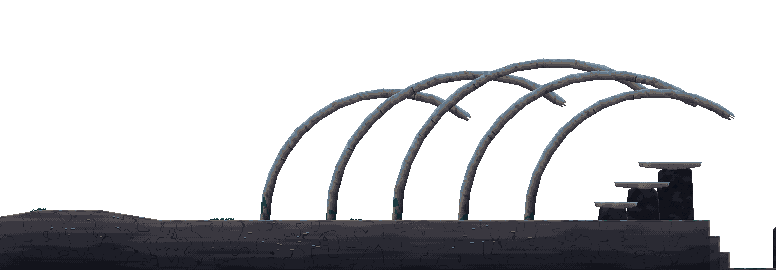
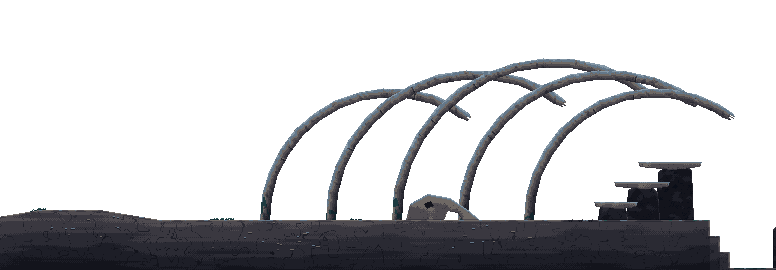
Draw the shelves, the tablets and what stands along the way
Baked into the ground strip: the skull under the ribs; the hollow under
the first shelf with the kneeling tablet in it and the procession cut
beside it, five robed figures walking into the sea where the arm rises;
the cairn; the second shelf on its two leaning props, with the eye
tablet and the statue; Dagon's footprint pressed into the mud, with the
mud its toes pushed up showing beside the prompt; and the three small
prints to the ledges. The tablets are lit and edged as the first one,
and fill their own shapes, so the one in the recess stays under its
shelf: prop_shape now honours a part's scale. 26 greybox shapes hidden.

Checked: check_art.py problems=0; integration 435 passed, 0 failed (GCC
debug, native clone). Captures looked at by the developer only.

Changed region(s): [[0.5258, 0.7111, 0.6186, 0.8296]]

diff --git a/tools/art/gen_abyss.py b/tools/art/gen_abyss.py
@@ -99,6 +99,7 @@ def ground():
     paste(img, crossing_pillar(), None)
     noise = Noise(301)  # The reference section's own, so the mud carries on across x = 1440.
     stone = Noise(331)
+    draw_props_behind(img, noise)
     for col in range(width):
         x = X0 + col
         top = round(GROUND_ROW + surface_y(x + 0.5))
@@ -144,6 +145,9 @@ def ground():
     draw_rock_feet(img, stone)
     draw_hollow(img, noise)
     draw_dressing(img, noise)
+    draw_props(img, noise)
+    draw_footprint(img, noise)
+    draw_prints(img)
     for x in range(END_WALL_X, X1):
         pass  # The ground runs on under the last wall, which is not drawn.
     return img
@@ -418,14 +422,16 @@ def prop_position(name):
 
 
 def prop_shape(prop, part):
-    """A part of a prop, in world space: the prop's place, the part's own offset, and its shape."""
+    """A part of a prop, in world space: the prop's place, the part's own offset and scale, and its shape."""
     text = scene_text()
     block = re.search(r'\[node name="%s" type="Polygon2D" parent="Props/%s"\]\n(.*?)\n\n' % (part, prop), text, re.S).group(1)
     offset = re.search(r"position = Vector2\(([-0-9.]+), ([-0-9.]+)\)", block)
     ox, oy = (float(offset.group(1)), float(offset.group(2))) if offset else (0.0, 0.0)
+    scale = re.search(r"scale = Vector2\(([-0-9.]+), ([-0-9.]+)\)", block)
+    sx, sy = (float(scale.group(1)), float(scale.group(2))) if scale else (1.0, 1.0)
     px, py = prop_position(prop)
     numbers = [float(n) for n in re.search(r"polygon = PackedVector2Array\(([^)]*)\)", block).group(1).split(",")]
-    return [(x + px + ox, y + py + oy) for x, y in zip(numbers[0::2], numbers[1::2])]
+    return [(x * sx + px + ox, y * sy + py + oy) for x, y in zip(numbers[0::2], numbers[1::2])]
 
 
 def carve(img, shapes, cut="E0", fill="T3", lip="T4"):
@@ -449,19 +455,26 @@ def carve(img, shapes, cut="E0", fill="T3", lip="T4"):
             put(img, x - X0, GROUND_ROW + y, color)
 
 
-def draw_tablet(img, noise, cx, base):
-    """A standing slab like the first, outside the cave (gen_cave.draw_tablet), on the ground or on a shelf."""
-    foot = GROUND_ROW + base
-    for y in range(foot - 33, foot):
-        row = y - (foot - 33)
-        half = 11 if row > 6 else 7 + round(row * 0.7)
-        for x in range(cx - half, cx + half + 1):
+def draw_tablet(img, noise, shape):
+    """A standing slab like the first, outside the cave (gen_cave.draw_tablet), lit and edged as it is, filling its
+    own shape in the scene: the one in the recess is smaller, to stand under the shelf."""
+    left, right = math.floor(min(x for x, _ in shape)), math.ceil(max(x for x, _ in shape))
+    top, bottom = math.floor(min(y for _, y in shape)), math.ceil(max(y for _, y in shape))
+    cx = (left + right) / 2
+    for y in range(top, bottom):
+        for x in range(left, right + 1):
+            if not _covers(shape, x, y):
+                continue
             facet = noise(x / 6.0, y / 7.0)
-            value = 3.0 + (facet - 0.5) * 1.0 + (0.6 if x < cx else 0.0) - row * 0.02
-            put(img, x - X0, y, ramp(MUD, value, x, y, 0.2))
-        put(img, cx - half - X0, y, "C5")
-        put(img, cx + half - X0, y, "E1")
-    hline(img, cx - 7 - X0, cx + 7 - X0, foot - 33, "C6")
+            value = 3.0 + (facet - 0.5) * 1.0 + (0.6 if x < cx else 0.0) - (y - top) * 0.02
+            color = ramp(MUD, value, x, y, 0.2)
+            if not _covers(shape, x, y - 1):
+                color = "C6"
+            elif not _covers(shape, x - 1, y):
+                color = "C5"
+            elif not _covers(shape, x + 1, y):
+                color = "E1"
+            put(img, x - X0, GROUND_ROW + y, color)
 
 
 def draw_props_behind(img, noise):
@@ -469,7 +482,7 @@ def draw_props_behind(img, noise):
     # Under the first shelf: a hollowed face of the rock, and the procession cut into it.
     paste(img, stone_from([scene_shape("Alcove", "ActArt")], 381, ROCK, 0.9, 1.2), None)
     paste(img, stone_from([prop_shape("Relief", "Panel")], 382, ROCK, 2.1, 0.9), None)
-    carve(img, [prop_shape("Relief", f"Walker{i}") for i in range(1, 6)], cut="E5", fill="E4", lip="E3")
+    draw_walkers(img)
     carve(img, [prop_shape("Relief", "Sea"), prop_shape("Relief", "Arm")])
     # What holds the second shelf up: two leaning props of rock, behind the way under it.
     for x, lean in ((3440, 5), (3548, -4)):
@@ -479,14 +492,31 @@ def draw_props_behind(img, noise):
         paste(img, stone_from([scene_shape(name, "Ledges")], seed, STONE, 2.5, 1.0), None)
 
 
+# A robed figure walking toward the sea, its head bowed: too small for the scene's shapes to say, so drawn by hand.
+WALKER = ["..##.", "..##.", "...#.", ".###.", ".####", ".###.", ".###.", ".###.", ".####", ".####", "#####"]
+STRIDES = [".#.#.", "#...#"]
+
+
+def draw_walkers(img):
+    """The procession, one figure on each walker's shape and standing on its foot, cut as the rest of the relief."""
+    for i in range(1, 6):
+        shape = prop_shape("Relief", f"Walker{i}")
+        left = round((min(x for x, _ in shape) + max(x for x, _ in shape)) / 2) - 2
+        rows = WALKER + [STRIDES[i % 2]]
+        top = round(max(y for _, y in shape)) - len(rows)
+        lit = {(left + c, top + r) for r, line_ in enumerate(rows) for c, mark in enumerate(line_) if mark == "#"}
+        for x, y in lit:
+            color = "E3" if (x, y + 1) not in lit else "E5" if (x, y - 1) not in lit else "E4"
+            put(img, x - X0, GROUND_ROW + y, color)
+
+
 def draw_props(img, noise):
     """What he can stop and look at."""
     # The second fossil: a skull as long as a man, one socket, lying where the ribs stand.
     paste(img, stone_from([prop_shape("FossilB", "Art")], 391, BONE_OLD, 3.0, 1.2), None)
     carve(img, [prop_shape("FossilB", "Socket")], cut="E0", fill="E0", lip="E1")
     for prop in ("TabletKneel", "TabletEye"):
-        shape = prop_shape(prop, "Art")
-        draw_tablet(img, noise, round(prop_position(prop)[0]), round(max(y for _, y in shape)))
+        draw_tablet(img, noise, prop_shape(prop, "Art"))
     carve(img, [prop_shape("TabletKneel", "Mark")])
     carve(img, [prop_shape("TabletEye", "Mark")])
     carve(img, [prop_shape("TabletEye", "Pupil")], cut="E0", fill="E0", lip="E0")
@@ -505,6 +535,29 @@ def draw_footprint(img, noise):
     for x in range(round(min(x for x, _ in shape)) + 6, round(max(x for x, _ in shape)) - 6):
         if _covers(flipped, x, 4) and noise(x / 2.0, 91.0) > 0.45:
             put(img, x - X0, GROUND_ROW + 4, "T2" if noise(x / 3.0, 92.0) > 0.5 else "T1")
+    # What shows over the prompt when he stands at it: the dent along the edge of the ground, and the mud its three
+    # toes pushed up, lit on top.
+    left, right = round(min(x for x, _ in shape)), round(max(x for x, _ in shape))
+    for x in range(left + 3, right - 2):
+        put(img, x - X0, GROUND_ROW + round(surface_y(x)), "E1")
+    for (tx, ty), height in zip(sorted((p for p in shape if p[1] < -9), key=lambda p: p[0]), (2, 3, 2)):
+        row = GROUND_ROW + round(surface_y(tx))
+        for dx in range(-2, 3):
+            h = height - (1 if abs(dx) == 2 else 0)
+            for k in range(1, h + 1):
+                put(img, round(tx) + dx - X0, row - k, "E4" if k == h else "E2" if dx < 0 else "E3")
+
+
+def draw_prints(img):
+    """Three small prints, a man's, pressed into the crust on the way to the ledges: dark in the dent, its far rim lit."""
+    for i in range(3):
+        shape = scene_shape(f"PrintDown{i}", "ActArt")
+        left, right = round(min(x for x, _ in shape)), round(max(x for x, _ in shape))
+        row = GROUND_ROW + round(surface_y(left))
+        hline(img, left - X0, right - X0, row, "E1")
+        put(img, left + 1 - X0, row + 1, "E0")
+        put(img, right - 1 - X0, row + 1, "E0")
+        put(img, right - X0, row - 1, "E4")
 
 
 # ---------------------------------------------------------------- the canyon
@@ -626,8 +679,9 @@ def _along(points, x, y):
 
 def rib_arch():
     """Five ribs of something far larger than a whale, standing out of the mud and leaning over the way on. Each fills
-    its own shape in the scene, short of the tip, where it snapped from the spine. Bleached along the back where the moon reaches, dark beneath, stained green
-    where it stands in the mud, split across in places by its own weight. Returns the image and its world origin."""
+    its own shape in the scene, short of the tip, where it snapped from the spine. Bleached along the back where the
+    moon reaches, dark beneath, stained green where it stands in the mud, split across in places by its own weight.
+    Returns the image and its world origin."""
     shapes = [gen_reveal.scene_polygon(name, "ActArt") for name in RIBS]
     x0 = math.floor(min(x for shape in shapes for x, _ in shape)) - 1
     y0 = math.floor(min(y for shape in shapes for _, y in shape)) - 1

diff --git a/docs/evidence/m4/art/README.md b/docs/evidence/m4/art/README.md
@@ -8,6 +8,7 @@ Collision is unchanged throughout: `tools/art/check_art.py` compares the drawn g
 |---|---|---|---|
 | **A. The Abyss's ground and far view** | The seabed drawn from the reference section's end to the trench, its mud carried across x = 1440 without a seam, drying crust going black and wet, then worn flags toward the Monolith; rock where the collision has a block to climb. The Abyss opened to the sky: the plain and its far ridges carried on, and a far cliff, on which the watcher stands and behind which the distant shape rises. The flat backdrop, the rim, the blocky ridges and the greybox ground are hidden (D100) | `a1` to `a3`, [sheet](a-sheet.png) | `622ca0e` |
 | **B. The rib arch** | Five ribs, bleached along the back where the moon reaches and dark beneath, stained where they stand in the mud, split by hairline cracks from the belly, each snapped to a splintered point where it once met the spine. Baked into the ground strip behind the mud, which keeps their place in the drawing order: behind the carving and everything that stands. The five greybox ribs are hidden. Decoration only: they had no collision and have none | `b1`, `b2`, [sheet](b-sheet.png) | `cdb1ba6` |
-| **C. The crossing's ledges, slab and stone** | The three ledges as worn shelves of paler stone on dark stacks, and the post in the hollow, baked into the ground strip. The slab and the boulder drawn on their own moving bodies, so they turn and fall exactly as the puzzle moves them: the slab cracked through near one end, with the wave cut small into the end the stone falls on; the boulder rounded by the sea, lit from above. Their greybox shapes are hidden; their collision is untouched | `c1` (the ledges, from the middle one), `c3` (the slab raised), `c4` (the slab down, the stone fallen), [sheet](c-sheet.png) | the commit that adds this row |
+| **C. The crossing's ledges, slab and stone** | The three ledges as worn shelves of paler stone on dark stacks, and the post in the hollow, baked into the ground strip. The slab and the boulder drawn on their own moving bodies, so they turn and fall exactly as the puzzle moves them: the slab cracked through near one end, with the wave cut small into the end the stone falls on; the boulder rounded by the sea, lit from above. Their greybox shapes are hidden; their collision is untouched | `c1` (the ledges, from the middle one), `c3` (the slab raised), `c4` (the slab down, the stone fallen), [sheet](c-sheet.png) | `a9bbd3c` |
+| **D. The shelves, tablets and other props** | All baked into the ground strip. The skull under the ribs, older bone than they are, with its one socket. Under the first shelf, a hollowed face of rock with the kneeling tablet standing in it, under the shelf and clear of it, and the procession cut beside it: five small robed figures, heads bowed, walking into the sea where the arm rises. The cairn on that shelf; on the second, the eye tablet and the statue, the shelf held up on two leaning props of rock. The tablets are lit and edged as the first one is, outside the cave, and their signs are cut as its sign is. Dagon's footprint pressed into the mud with water standing in it, seen on the way to it (`d0`), with the mud its toes pushed up still showing beside the prompt when he stands at it. The three small prints that lead to the ledges. 26 greybox shapes hidden; the tests that read their outlines read them as before | `d-b2` (the skull), `d0`, `d2`, `d3`, `d5`, `d6`, [sheet](d-sheet.png) | the commit that adds this row |
 
-**Known in these captures, and next in order:** in `a1` to `a3` the ribs are still greybox, as they were at `622ca0e`. In `b1` and `b2` the ledges, the slab and the stone are, as they were at `cdb1ba6`. The fossil, the carved panel and everything past the crossing are still greybox shapes in all of them; each has its own stretch below as it lands.
+**Known in these captures, and next in order:** in `a1` to `a3` the ribs are still greybox, as they were at `622ca0e`. In `b1` and `b2` the ledges, the slab, the stone and the skull are, as they were at `cdb1ba6`; in `c1` to `c4` the skull is, as at `a9bbd3c`. The canyon wall, the trench, the gate, the puzzle stones and the lit mural are still greybox in all of them; each has its own stretch below as it lands.
